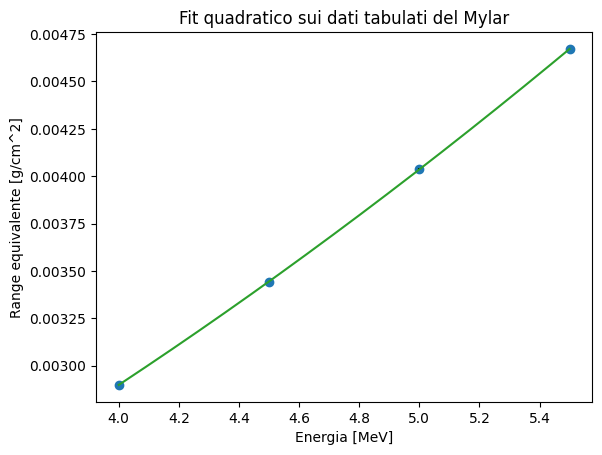
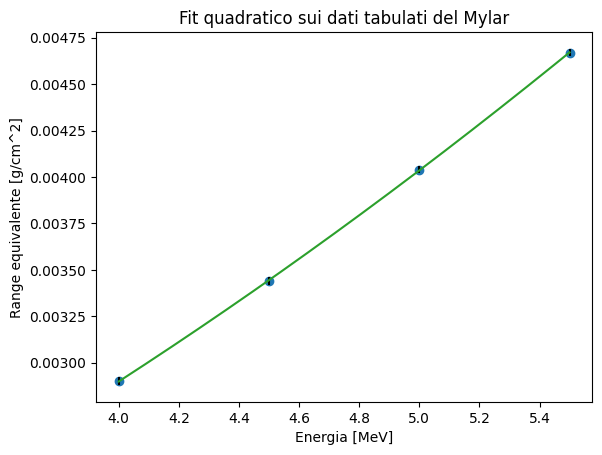
Aggiunta ax3 inversa

diff --git a/Python/Analisi dati a posteriori.py b/Python/Analisi dati a posteriori.py
@@ -22,6 +22,7 @@ md = MdUtils(file_name = "AnalisiOut")
 fig1, ax1 = plt.subplots()
 fig2, ax2 = plt.subplots()
 fig3, ax3 = plt.subplots()
+fig3inv, ax3inv = plt.subplots()
 fig4, ax4 = plt.subplots()
 fig5, ax5 = plt.subplots()
 fig6, ax6 = plt.subplots()
@@ -196,6 +197,9 @@ A_pressione, B_pressione = uncertainties.correlated_values(
 def pressione(Cnt):
     return A_pressione * Cnt + B_pressione
 
+def pressioneInv(press):
+    return (press - B_pressione.n)/A_pressione.n
+
 metà_conteggio = max(df["Conteggi"])/2
 u_metà_conteggio = uncertainties.ufloat(metà_conteggio, np.sqrt(metà_conteggio))
 
@@ -225,7 +229,7 @@ md.new_header(title = "Range nel Mylar", level = 1)
 
 xdata = Energie_mylar["Energie"].to_numpy()
 ydata = Energie_mylar["Range"].to_numpy()
-xy = XY(xdata, np.ones(len(xdata))*0.0001, ydata, np.ones(len(ydata))*1e-6)
+xy = XY(xdata, np.ones(len(xdata))*0.0001, ydata, np.ones(len(ydata))*0.02e-3)
 
 #Fit quadratico per estrapolare dopo 
 out = fit(Pol, xy)
@@ -268,6 +272,8 @@ E1_attese = [E1(5.486, x, a, b, c) for x in spess]
 print("ENERGIE")
 for x, y in zip(E1_misurate, E1_attese):
     print(x, y, sep = "\t")
+
+print([(x-y).n/(x-y).s for x,y in zip(E1_misurate, E1_attese)])
 
 df = pd.DataFrame({
     "Energie misurate": E1_misurate,
@@ -357,6 +363,10 @@ print(dati.y, y2, uy2)
 dati.y = unp.uarray(y2, uy2)
 out = fit(modelloG_giusto, data2D = dati)
 plotta(ax8, data2D = dati, FunzioneModello = modelloG_giusto, parametri = out.params)
+print(df_per_estrapolazione)
+ax3inv.plot(press_tutti, cont_tutti, 'o', color = "blue")
+ax3inv.errorbar(press_tutti, cont_tutti, yerr = np.sqrt(cont_tutti), xerr = np.ones(len(press_tutti)), ecolor = 'black', ls = "")
+ax3inv.plot(df_per_estrapolazione["Pressione"].to_numpy(), pressioneInv(df_per_estrapolazione["Pressione"]))
 
 ax1.set_xlabel('Canale')
 ax1.set_ylabel('Tensione [V]')
@@ -370,28 +380,34 @@ ax3.set_xlabel('Conteggi')
 ax3.set_ylabel('Pressione [mbar]')
 ax3.title.set_text("Estrapolazione della pressione di dimezzamento")
 
+ax3inv.set_xlabel('Pressione [mbar]')
+ax3inv.set_ylabel('Conteggi')
+ax3inv.title.set_text("Estrapolazione della pressione di dimezzamento")
+
 ax4.set_xlabel('Energia [MeV]')
 ax4.set_ylabel('Range equivalente [g/cm^2]')
 ax4.title.set_text("Fit quadratico sui dati tabulati del Mylar")
 
-ax5.set_xlabel('Distanza tra la sorgente e il rivelatore(1/r^2)')
-ax5.set_ylabel('Rate')
-ax5.title.set_text("Rate in funzione della distanza")
+ax5.set_xlabel('Distanza tra la sorgente e il rivelatore [mm]')
+ax5.set_ylabel('Rate [cnt/s]')
+ax5.title.set_text("Rate in funzione della distanza (1/r^2)")
 
-ax6.set_xlabel('Distanza tra la sorgente e il rivelatore(arcsin)')
-ax6.set_ylabel('Rate')
-ax6.title.set_text("Rate in funzione della distanza")
+ax6.set_xlabel('Distanza tra la sorgente e il rivelatore [mm]')
+ax6.set_ylabel('Rate [cnt/s]')
+ax6.title.set_text("Rate in funzione della distanza (arcsin)")
 
-ax7.set_xlabel('Distanza tra la sorgente e il rivelatore(arcsin traslato)')
-ax7.set_ylabel('Rate')
-ax7.title.set_text("Rate in funzione della distanza")
+ax7.set_xlabel('Distanza tra la sorgente e il rivelatore [mm]')
+ax7.set_ylabel('Rate [cnt/s]')
+ax7.title.set_text("Rate in funzione della distanza (arcsin traslato)")
 
-ax8.set_xlabel('Distanza tra la sorgente e il rivelatore(arcsin con errori)')
+ax8.set_xlabel('Distanza tra la sorgente e il rivelatore [mm]')
 ax8.set_ylabel('Rate')
-ax8.title.set_text("Rate in funzione della distanza")
+ax8.title.set_text("Rate in funzione della distanza (arcsin con errori indotti)")
 
 plt.show()
 for i, fig in enumerate([fig1, fig2, fig3, fig4, fig5, fig6, fig7, fig8]):
     fig.savefig(f"../Figure/ax{i+1}", bbox_inches="tight")
+
+fig3inv.savefig(f"../Figure/ax3inv", bbox_inches="tight")
 
 md.create_md_file()

diff --git a/Python/AnalisiOut.md b/Python/AnalisiOut.md
@@ -143,10 +143,10 @@ $c = 0.00015 \pm 0.00030 $
     # function evals   = 9
     # data points      = 4
     # variables        = 3
-    chi-square         = 45.0000000
-    reduced chi-square = 45.0000000
-    Akaike info crit   = 15.6814725
-    Bayesian info crit = 13.8403556
+    chi-square         = 0.11250000
+    reduced chi-square = 0.11250000
+    Akaike info crit   = -8.28438567
+    Bayesian info crit = -10.1255026
 [[Variables]]
     a:  9.0000e-05 +/- 1.3416e-05 (14.91%) (init = 1)
     b:  3.2700e-04 +/- 1.2760e-04 (39.02%) (init = 1)
